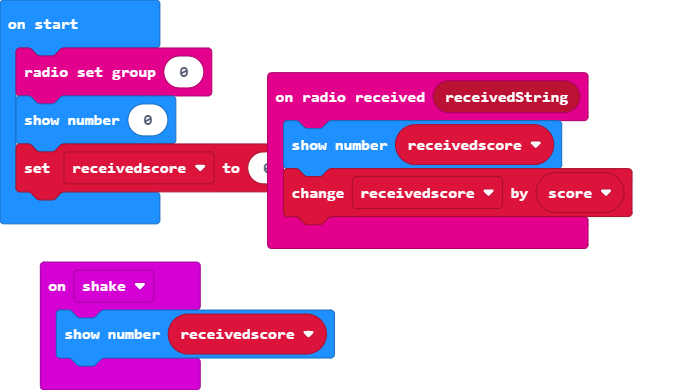
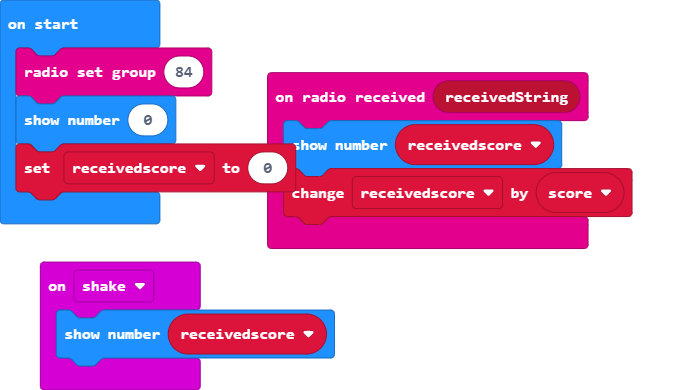
3

Changed region(s): [[0.3684, 0.3692, 0.4605, 0.4923], [0.2456, 0.1538, 0.2763, 0.2154]]

diff --git a/main.ts b/main.ts
@@ -7,6 +7,6 @@ input.onGesture(Gesture.Shake, function () {
     basic.showNumber(receivedscore)
 })
 let receivedscore = 0
-radio.setGroup(0)
+radio.setGroup(84)
 basic.showNumber(0)
 receivedscore = 0
